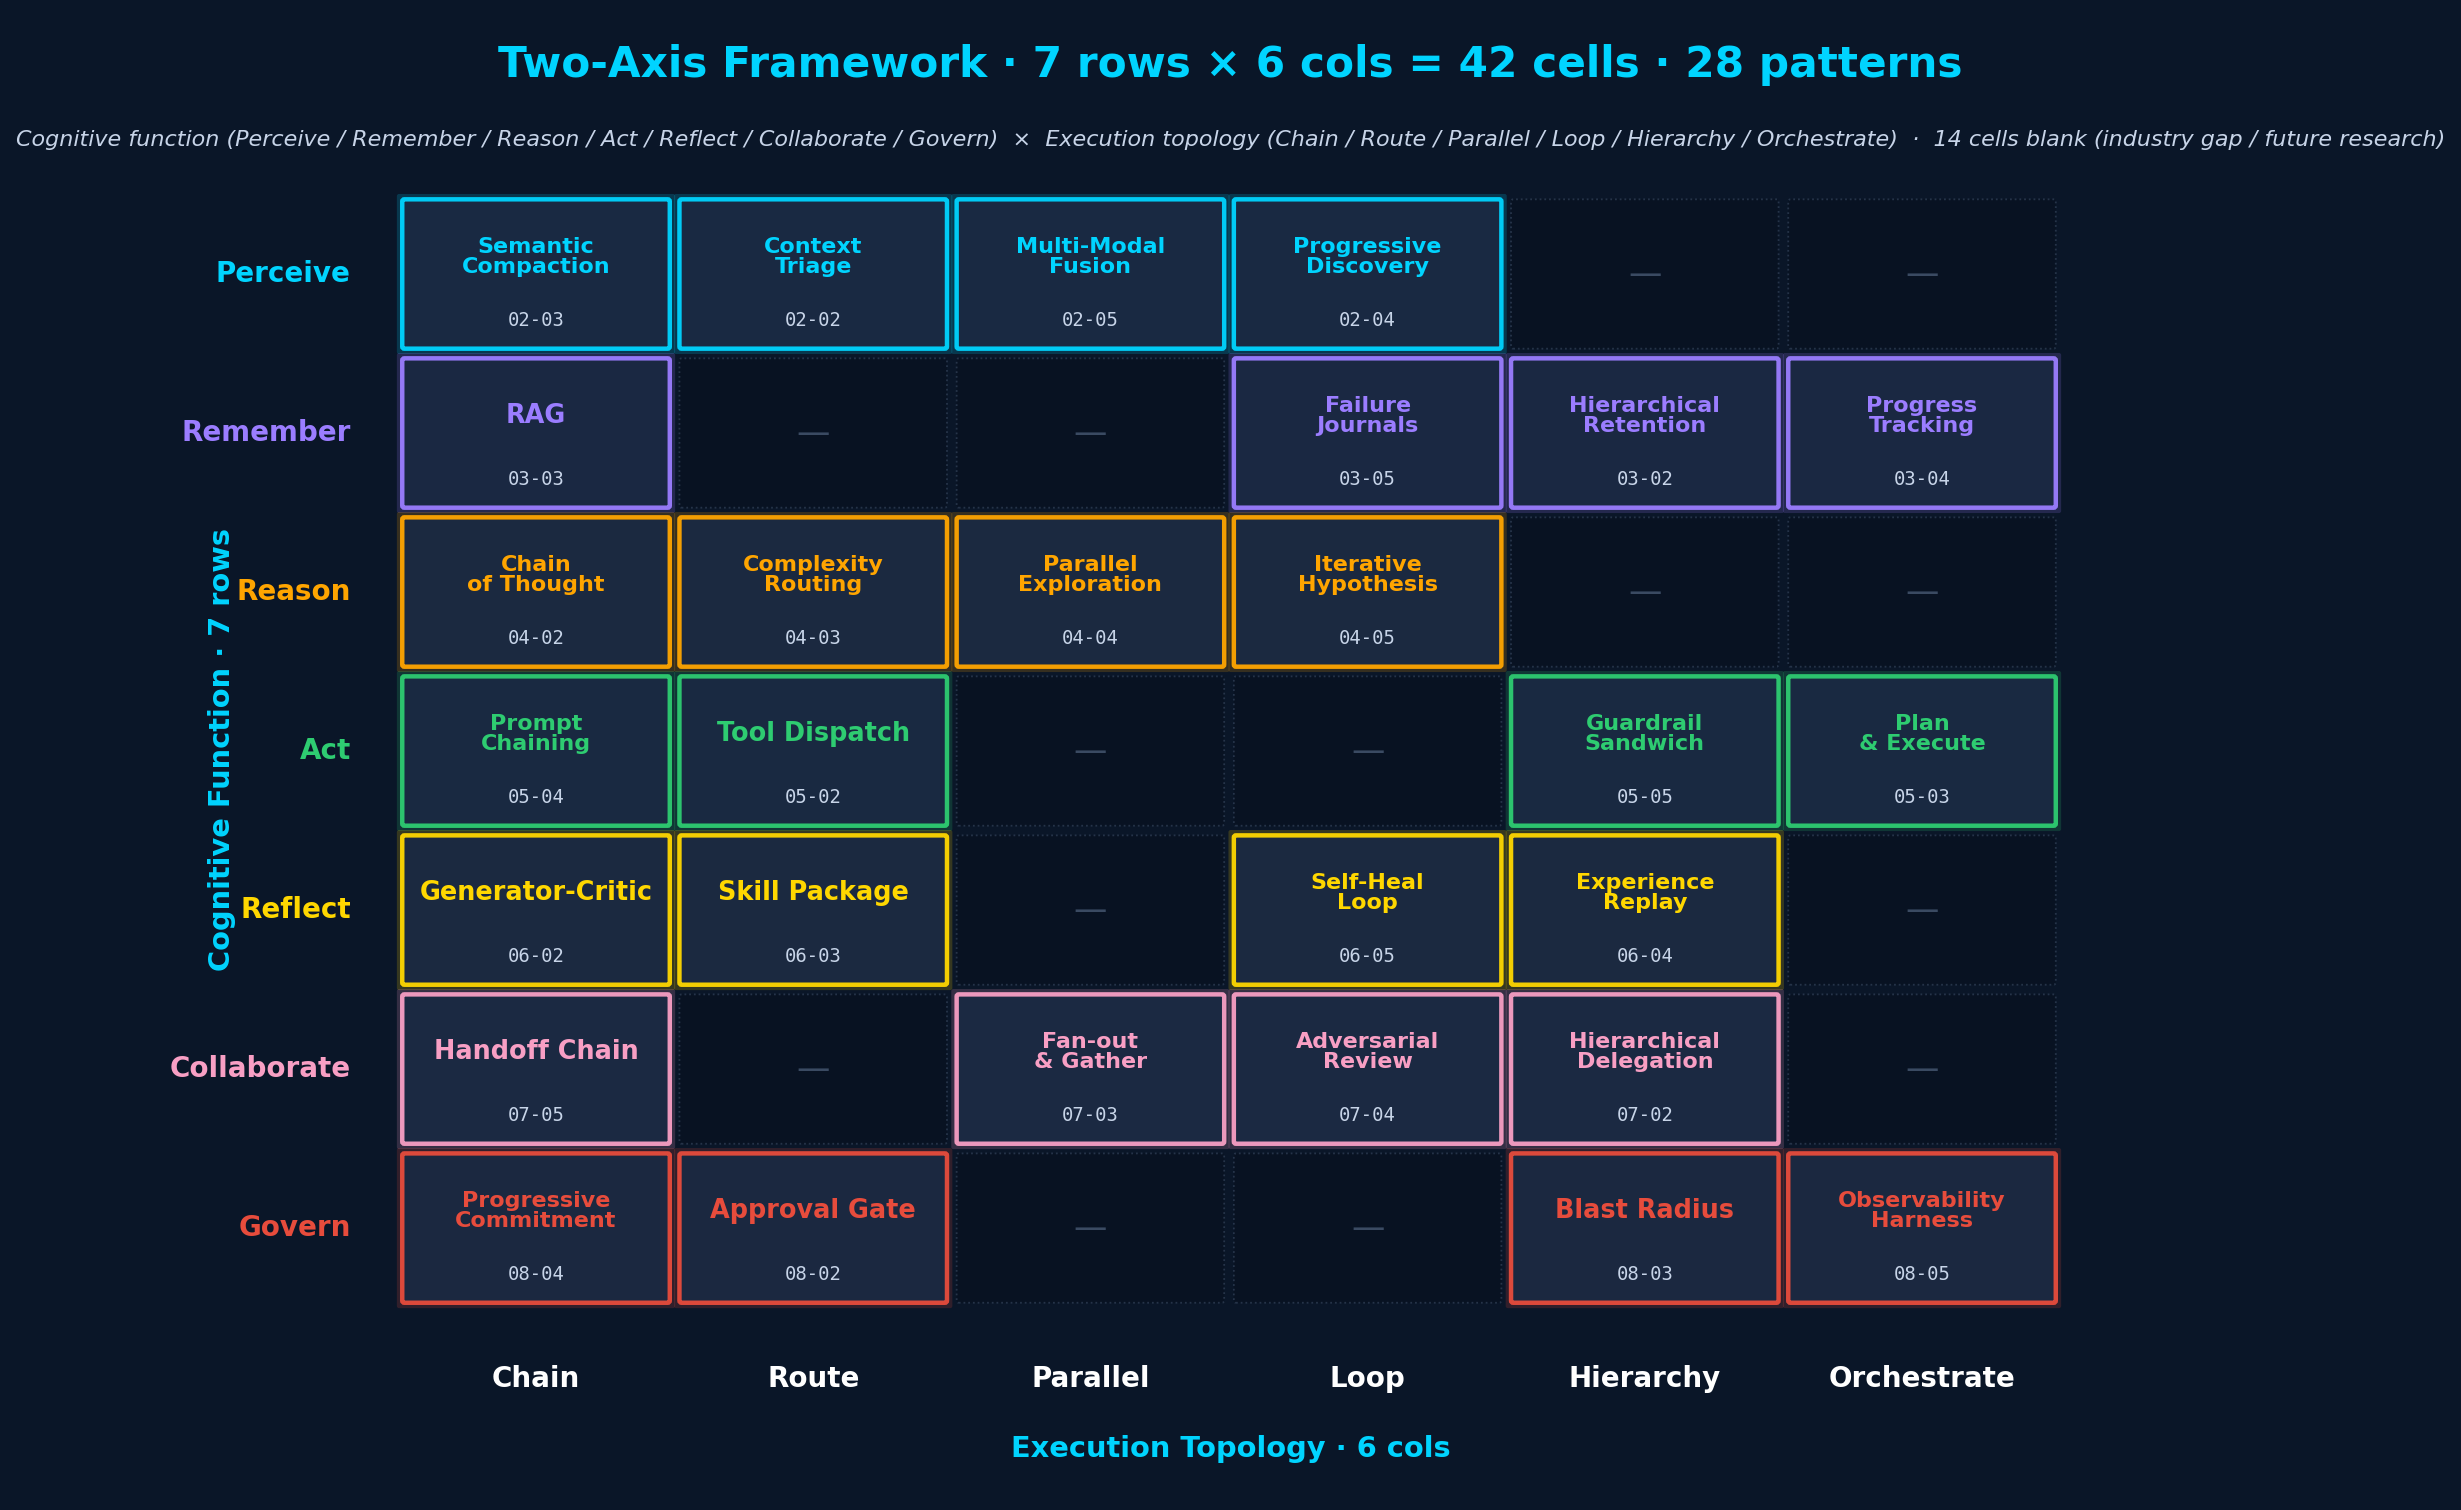
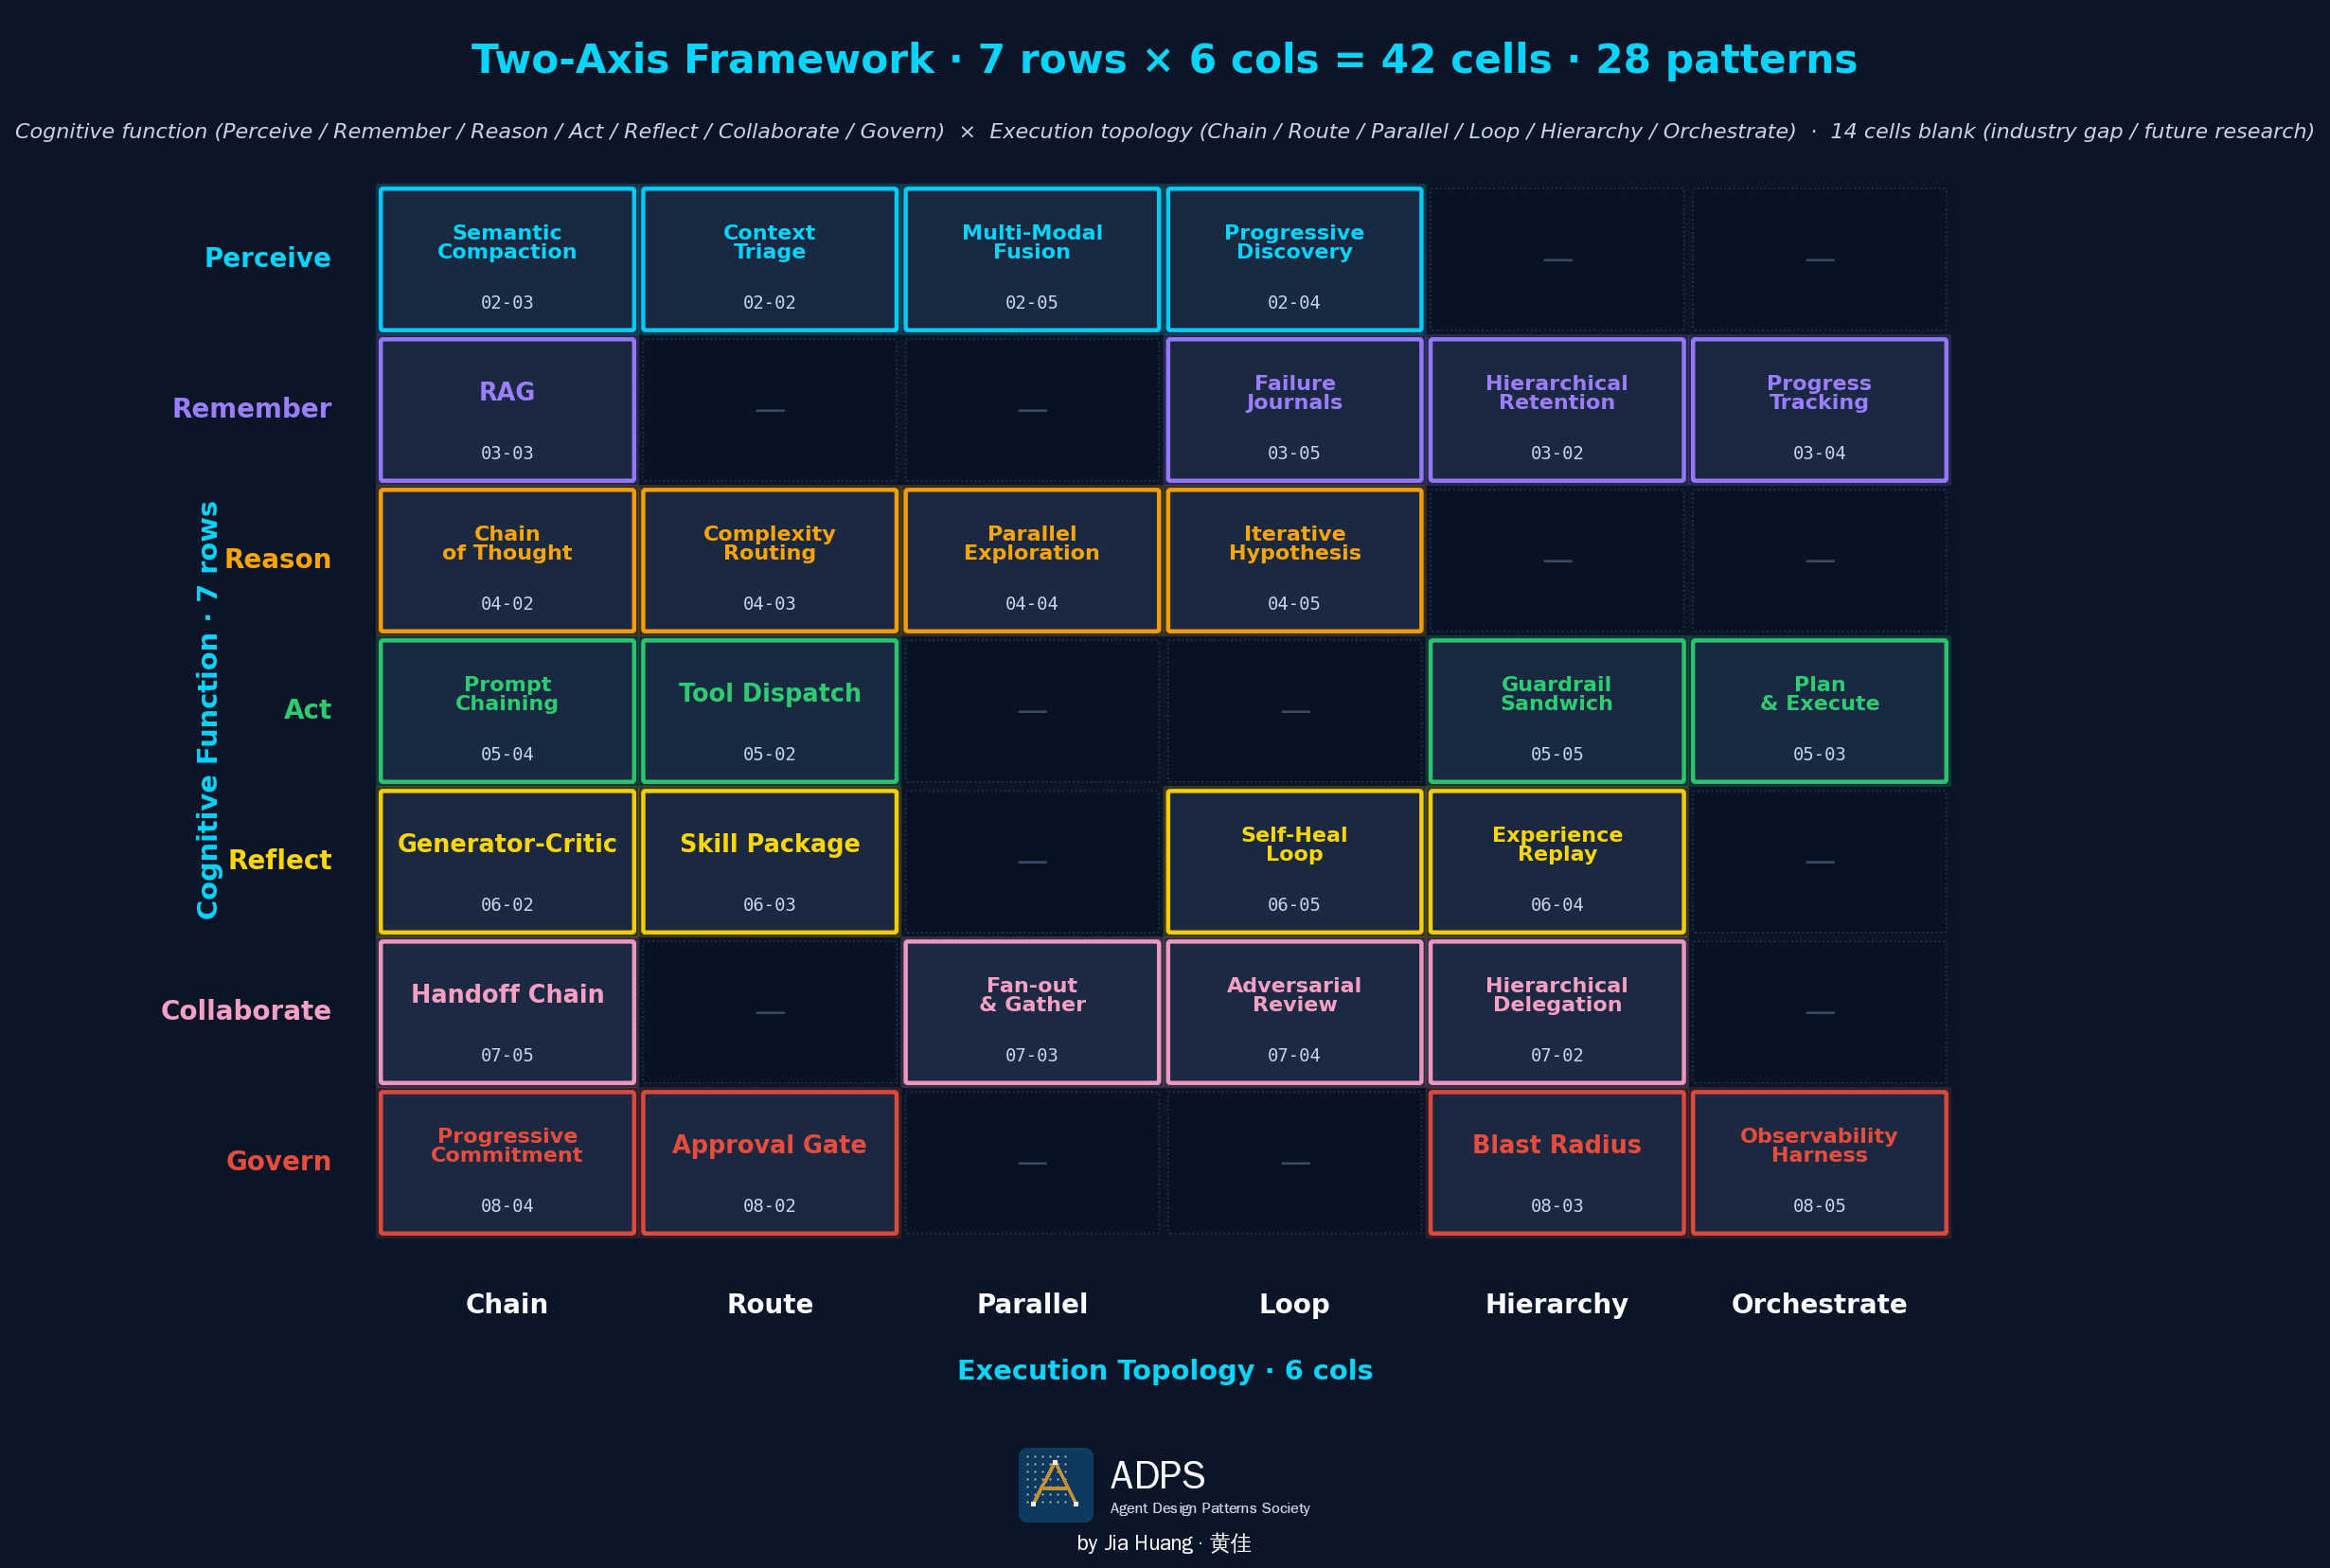
Watermark docs matrix PNGs with ADPS + by Jia Huang footer
Adds a footer strip beneath both docs matrix diagrams with ADPS logo
mark and 'by Jia Huang · 黄佳' attribution:
- docs/matrix.png (with codes, full 7×6)
- docs/matrix-clean.png (clean variant)

Originals preserved under docs/_backup-pre-watermark-20260704/.
render_matrix.py updated to apply watermark automatically on future
regeneration. Watermark utility co-located in same directory.

diff --git a/docs/add_watermark.py b/docs/add_watermark.py
@@ -1,0 +1,204 @@
+"""
+ADPS 双轴矩阵图片水印工具 · v2 (footer 版)
+==========================================
+在源图底部扩一条 footer 条，把 ADPS logo + "by Jia Huang · 黄佳" 水印
+放在 footer 内。不覆盖任何内容格。视觉与 adps-logo.svg 一致。
+
+用法：
+    python3 add_watermark.py <input.png> <output.png>
+
+或从其它脚本导入：
+    from add_watermark import add_watermark
+    add_watermark("in.png", "out.png")
+"""
+from pathlib import Path
+from PIL import Image, ImageDraw, ImageFont
+import sys
+
+# 配色：与 adps-logo.svg 一致
+NAVY = (15, 58, 95)          # #0f3a5f
+GOLD = (196, 145, 54)        # #c49136
+INK_LIGHT = (248, 250, 252)  # #f8fafc
+INK_DARK = (15, 23, 42)      # #0f172a
+INK_MUTED = (100, 116, 139)  # #64748b
+
+FONT_CANDIDATES = [
+    "/usr/share/fonts/truetype/wqy/wqy-zenhei.ttc",
+    "/usr/share/fonts/truetype/wqy/wqy-microhei.ttc",
+    "/usr/share/fonts/opentype/noto/NotoSansCJK-Regular.ttc",
+    "/usr/share/fonts/truetype/noto/NotoSansCJK-Regular.ttc",
+]
+FONT_PATH = next((c for c in FONT_CANDIDATES if Path(c).exists()), None)
+if FONT_PATH is None:
+    raise SystemExit("No CJK font found. Install fonts-noto-cjk or fonts-wqy-microhei.")
+
+
+def _f(size):
+    return ImageFont.truetype(FONT_PATH, size)
+
+
+def detect_bg_color(img: Image.Image):
+    """从图片四角采样，判定底色（深色 / 浅色）。返回 (bg_rgb, is_dark)。"""
+    W, H = img.size
+    if img.mode != "RGBA":
+        img = img.convert("RGBA")
+    # 取四角 10×10 块的平均
+    corners = [(0, 0), (W - 10, 0), (0, H - 10), (W - 10, H - 10)]
+    r_sum, g_sum, b_sum, cnt = 0, 0, 0, 0
+    for cx, cy in corners:
+        crop = img.crop((cx, cy, cx + 10, cy + 10))
+        for px in crop.getdata():
+            r_sum += px[0]
+            g_sum += px[1]
+            b_sum += px[2]
+            cnt += 1
+    r, g, b = r_sum // cnt, g_sum // cnt, b_sum // cnt
+    luminance = 0.2126 * r + 0.7152 * g + 0.0722 * b
+    return (r, g, b), luminance < 128
+
+
+def build_footer_watermark(width: int, is_dark_bg: bool, scale: float = 1.0):
+    """
+    构建一个水平 footer 水印条。宽度 = width，高度自动。
+    is_dark_bg=True 时使用透明底 + 白字。False 时透明底 + 深色字。
+    """
+    icon = int(56 * scale)
+    pad = int(14 * scale)
+    text_gap = int(14 * scale)
+
+    # 计算文字尺寸
+    f_adps = _f(int(30 * scale))
+    f_sub = _f(int(12 * scale))
+    f_by = _f(int(16 * scale))
+
+    # 元素排布：[icon] [ADPS wordmark stack]     [by Jia Huang · 黄佳]
+    # 但按用户要求：ADPS logo 在上，"by Jia Huang" 在下，我们纵向压两行
+    # 布局改成：[icon + ADPS 单行]  换行  [by Jia Huang · 黄佳 居中]
+
+    # Line 1 宽度：icon + gap + "ADPS" text width
+    tmp = Image.new("RGBA", (10, 10))
+    d = ImageDraw.Draw(tmp)
+    adps_bbox = d.textbbox((0, 0), "ADPS", font=f_adps)
+    adps_w = adps_bbox[2] - adps_bbox[0]
+    sub_bbox = d.textbbox((0, 0), "Agent Design Patterns Society", font=f_sub)
+    sub_w = sub_bbox[2] - sub_bbox[0]
+    by_bbox = d.textbbox((0, 0), "by Jia Huang · 黄佳", font=f_by)
+    by_w = by_bbox[2] - by_bbox[0]
+
+    text_col_w = max(adps_w, sub_w, by_w)
+    line1_w = icon + text_gap + text_col_w
+    footer_h = icon + pad * 2 + int(22 * scale)  # icon + by-line
+
+    footer = Image.new("RGBA", (width, footer_h), (0, 0, 0, 0))
+    fd = ImageDraw.Draw(footer)
+
+    # 居中起点
+    start_x = (width - line1_w) // 2
+    y0 = pad
+
+    # 1. Navy 圆角方块 icon
+    fd.rounded_rectangle(
+        [(start_x, y0), (start_x + icon, y0 + icon)],
+        radius=int(6 * scale),
+        fill=NAVY,
+    )
+
+    # 2. dot grid
+    dot_r = max(1, int(0.9 * scale))
+    dot_spacing = int(6.4 * scale)
+    dot_start = int(7 * scale)
+    dot_fill = (INK_LIGHT[0], INK_LIGHT[1], INK_LIGHT[2], 107)
+    for row in range(7):
+        for col in range(6):
+            cx = start_x + dot_start + col * dot_spacing
+            cy = y0 + dot_start + row * dot_spacing
+            if cx <= start_x + icon - 3 and cy <= y0 + icon - 3:
+                fd.ellipse(
+                    [(cx - dot_r, cy - dot_r), (cx + dot_r, cy + dot_r)],
+                    fill=dot_fill,
+                )
+
+    # 3. gold "A" mark
+    gold_w = max(2, int(3.0 * scale))
+    def _s(v):  # scale within icon (SVG coords 0-64)
+        return int(v * (icon / 64.0))
+    a_left = (start_x + _s(13), y0 + _s(49))
+    a_top = (start_x + _s(31.5), y0 + _s(13))
+    a_right = (start_x + _s(50), y0 + _s(49))
+    a_cross_l = (start_x + _s(21.5), y0 + _s(34.5))
+    a_cross_r = (start_x + _s(41.5), y0 + _s(34.5))
+    fd.line([a_left, a_top], fill=GOLD, width=gold_w)
+    fd.line([a_top, a_right], fill=GOLD, width=gold_w)
+    fd.line([a_cross_l, a_cross_r], fill=GOLD, width=gold_w)
+
+    # 三个白小方点
+    sq = max(2, int(3.0 * scale))
+    for cx, cy in [a_left, a_top, a_right]:
+        fd.rectangle(
+            [(cx - sq // 2, cy - sq // 2), (cx + sq // 2, cy + sq // 2)],
+            fill=INK_LIGHT,
+        )
+
+    # 4. 右侧文字栈
+    text_x = start_x + icon + text_gap
+    text_color_primary = INK_LIGHT if is_dark_bg else NAVY
+    text_color_sub = (203, 213, 225) if is_dark_bg else INK_MUTED
+    fd.text((text_x, y0 + int(2 * scale)), "ADPS", font=f_adps, fill=text_color_primary)
+    fd.text(
+        (text_x, y0 + int(38 * scale)),
+        "Agent Design Patterns Society",
+        font=f_sub,
+        fill=text_color_sub,
+    )
+
+    # 5. "by Jia Huang · 黄佳" 居中在 footer 底部
+    by_x = (width - by_w) // 2
+    by_y = y0 + icon + int(6 * scale)
+    fd.text((by_x, by_y), "by Jia Huang · 黄佳", font=f_by, fill=text_color_primary)
+
+    return footer, footer_h
+
+
+def add_watermark(src_path: str, dst_path: str):
+    """
+    在源图底部扩一条 footer 条,把水印放里面。
+    """
+    src = Image.open(src_path).convert("RGBA")
+    W, H = src.size
+
+    bg_rgb, is_dark = detect_bg_color(src)
+    bg_rgba = bg_rgb + (255,)
+
+    # scale 按图宽自动
+    if W >= 2200:
+        scale = 1.4
+    elif W >= 1600:
+        scale = 1.15
+    elif W >= 1200:
+        scale = 1.0
+    elif W >= 900:
+        scale = 0.85
+    else:
+        scale = 0.7
+
+    footer, footer_h = build_footer_watermark(W, is_dark, scale=scale)
+
+    # 新画布 = 原图 + footer 高度
+    new_h = H + footer_h
+    out = Image.new("RGBA", (W, new_h), bg_rgba)
+    out.paste(src, (0, 0), src)
+
+    # footer 直接覆盖到底部
+    out.paste(footer, (0, H), footer)
+
+    # 存
+    out.save(dst_path, "PNG", optimize=True)
+    print(f"Watermarked: {dst_path} ({W}x{H} → {W}x{new_h}, bg={'dark' if is_dark else 'light'} rgb={bg_rgb}, scale={scale})")
+
+
+if __name__ == "__main__":
+    if len(sys.argv) < 3:
+        print("用法: python3 add_watermark.py <input.png> <output.png>")
+        sys.exit(1)
+
+    add_watermark(sys.argv[1], sys.argv[2])

diff --git a/docs/render_matrix.py b/docs/render_matrix.py
@@ -188,3 +188,12 @@ if __name__ == "__main__":
     base = Path(__file__).resolve().parent
     render(base / "matrix.png", clean=False, show_codes=True)
     render(base / "matrix-clean.png", clean=True, show_codes=True)
+
+    # 2026-07-04: 加 ADPS 水印
+    import sys
+    sys.path.insert(0, str(base))
+    from add_watermark import add_watermark
+    for name in ("matrix.png", "matrix-clean.png"):
+        p = base / name
+        add_watermark(str(p), str(p))
+        print(f"✓ Watermarked {name}")